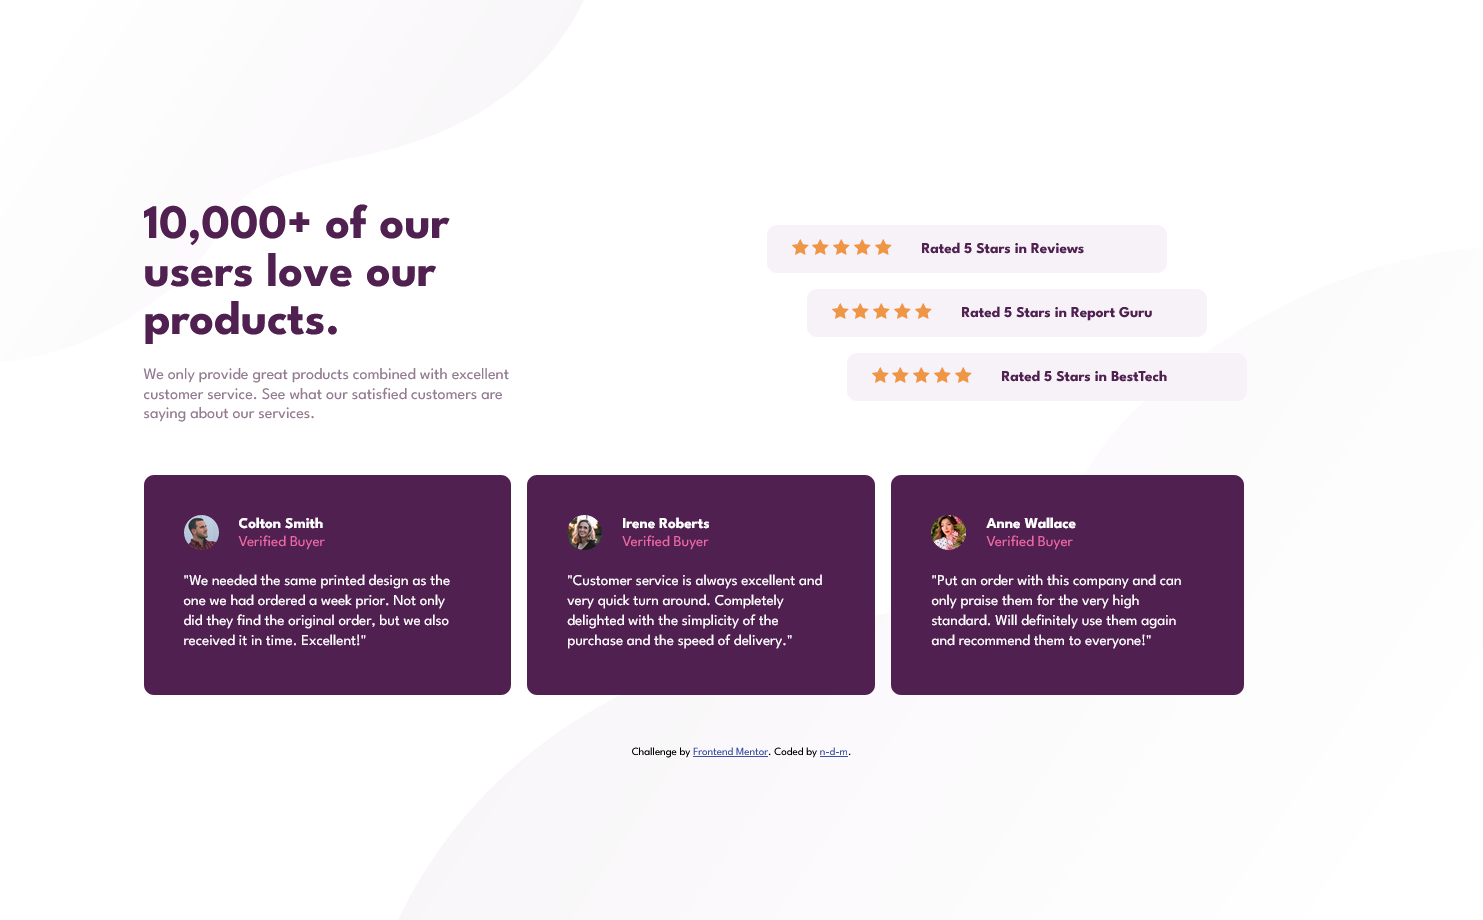
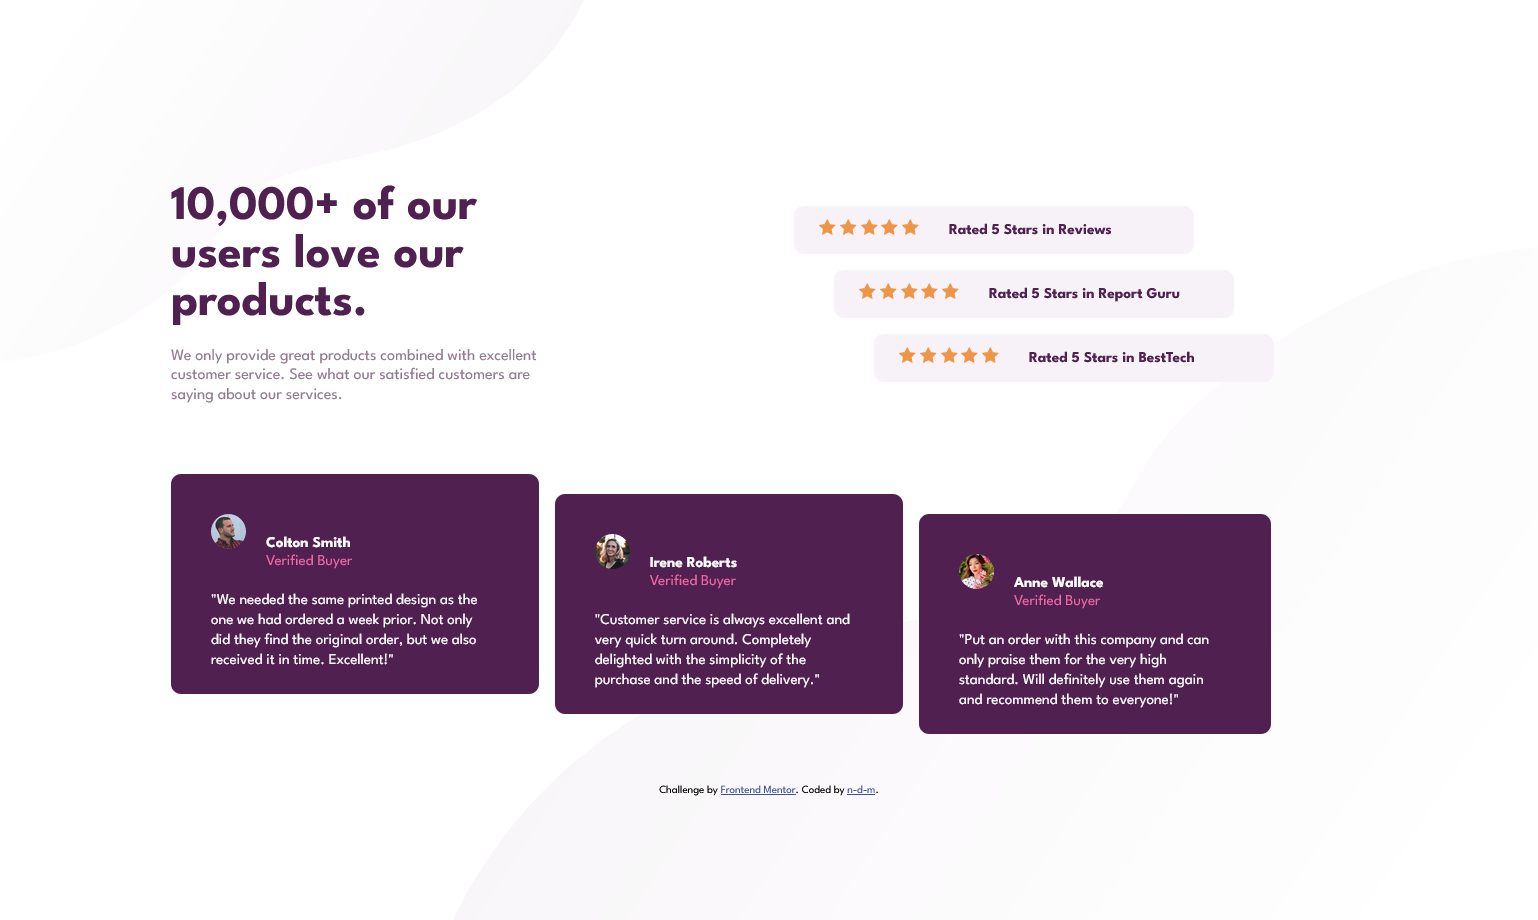
css change

diff --git a/style.css b/style.css
@@ -280,4 +280,12 @@ main > p {
     padding: 40px 45px 40px 40px;
     height: 220px;
   }
+
+  .reviews div:nth-child(2) {
+    margin-top: 20px;
+  }
+
+  .reviews div:nth-child(3) {
+    margin-top: 40px;
+  }
 }
